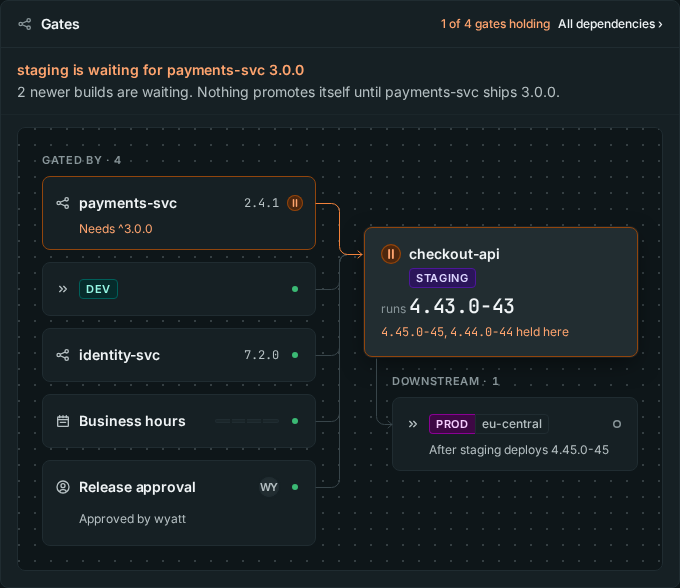
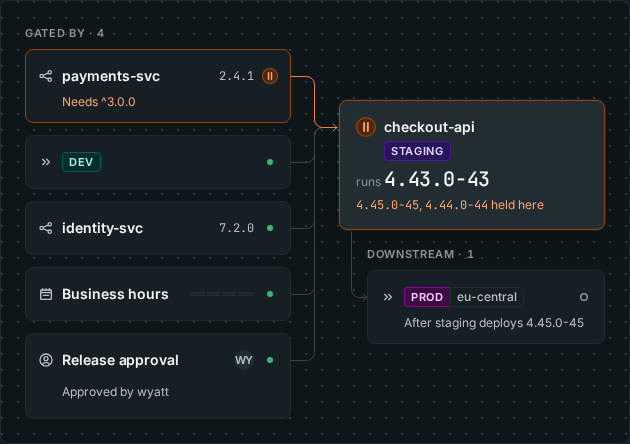
docs: R8-DES-5/6/7 + R8-C-7: desktop shots <= 630 wide and <= 600 tall (gate graphs at 944, palette at 660, hello-waves Progress, In flight card), full environment names in alt text

diff --git a/content/docs/operate/dashboard.md b/content/docs/operate/dashboard.md
@@ -27,11 +27,11 @@ An app's Progress tab shows how far each build has gone; a rollout's Gates tab s
 2. When two or more releases are in flight, pick one in the release list, beside the drawing or above it on a narrow screen. The drawing shows every environment as a column, its regions grouped by **Wave**, and each place's state: deployed, deploying, checking, held (with the rule that holds it), waiting for approval, failed, or **Not reached**.
 3. Select a place in the drawing to open that rollout. When the app waits or failed, the banner above also has **Open rollout**. To find what a banner's words mean and how to clear them, look them up in [What the dashboard shows](/docs/operate/troubleshooting/#what-the-dashboard-shows).
 
-![The Progress card of checkout-api on its oldest build in flight, 4.41.0-41: dev runs 4.45.0-45, staging 4.43.0-43, and production is grouped in waves, eu-central and us-east-1 in wave 1, us-east-2 in wave 2, af-south-1 and ap-southeast-2 in wave 3, not reached](/images/docs/operate/dashboard-progress.png)
+![The Progress card of hello-waves-app on build c6f19d2, 5 of 5 places deployed: dev-local in development, eu-west-1 in staging, and production in two waves, eu-west-1 and us-east-1 in wave 1 and ap-south-1 in wave 2](/images/docs/operate/dashboard-progress.png)
 
 4. On the rollout, select the **Gates** tab. **Gated by** lists every gate, the environment before this one and the services this one depends on (its count is gates only), **Downstream** the rollouts that deploy after it. Below it, **Held builds**, **Waiting on** and **Depends on this** list held builds, dependencies and dependents. **All dependencies ›** opens the whole dependency network.
 
-![The Gates card of billing-edge in production: prod is waiting on an approval, and two gates hold build 5.8.0-62, the closed Business hours window and Release approval, which needs approval, each with a Skip once button, while billing-edge runs 5.7.1-61](/images/docs/operate/dashboard-gated-by.png)
+![The Gates graph of billing-edge in production: two gates hold build 5.8.0-62, the closed Business hours window and Release approval, which needs approval, each with a Skip once button, and billing-edge in production runs 5.7.1-61](/images/docs/operate/dashboard-gated-by.png)
 
 ## Follow a change
 

diff --git a/content/docs/gates/dependencies.md b/content/docs/gates/dependencies.md
@@ -89,7 +89,7 @@ kubectl get rolloutdependency checkout-needs-payments -n hello-world -o jsonpath
 
 The dashboard shows the same on the rollout's **Gates** tab: what the consumer waits on, the version it needs against the version running, and the contract across every environment. The home page and the Environments page name the provider on every held card.
 
-![The Gates card of checkout-api in staging: staging is waiting for payments-svc 3.0.0. The dev promotion passes, and of 4 gates only the payments-svc dependency holds: it runs 2.4.1 where checkout-api needs ^3.0.0, while the identity-svc dependency, Business hours and a Release approval by wyatt pass. The checkout-api staging node runs 4.43.0-43 with 4.45.0-45 and 4.44.0-44 held there, and prod eu-central waits downstream until staging deploys 4.45.0-45](/images/docs/rollout-dependencies.png "The provider still runs 2.4.1, so checkout-api holds its newer builds in staging until payments-svc ships 3.0.0.")
+![The Gates graph of checkout-api in staging: the development promotion passes, and of 4 gates only the payments-svc dependency holds, because payments-svc runs 2.4.1 where checkout-api needs ^3.0.0; the identity-svc dependency, Business hours and a Release approval by wyatt pass. The checkout-api staging node runs 4.43.0-43 with 4.45.0-45 and 4.44.0-44 held there, and production eu-central waits downstream until staging deploys 4.45.0-45](/images/docs/rollout-dependencies.png "The provider still runs 2.4.1, so checkout-api holds its newer builds in staging until payments-svc ships 3.0.0.")
 
 Once the provider bakes, the consumer follows a few seconds later, unprompted.
 

diff --git a/content/docs/integrations/github.md b/content/docs/integrations/github.md
@@ -121,7 +121,7 @@ The dashboard header now offers **Connect GitHub**. Sign in once; the commit lis
 
 {{% /steps %}}
 
-![The Changes page for the signed-in user: In flight, three pull requests grouped under the environment each has reached, and Landed, with four changes](/images/docs/integrations/github-changes.png)
+![The In flight card of the Changes page for the signed-in user: three pull requests grouped under the environment each has reached, two in development and one in production](/images/docs/integrations/github-changes.png)
 
 ## How it works
 
